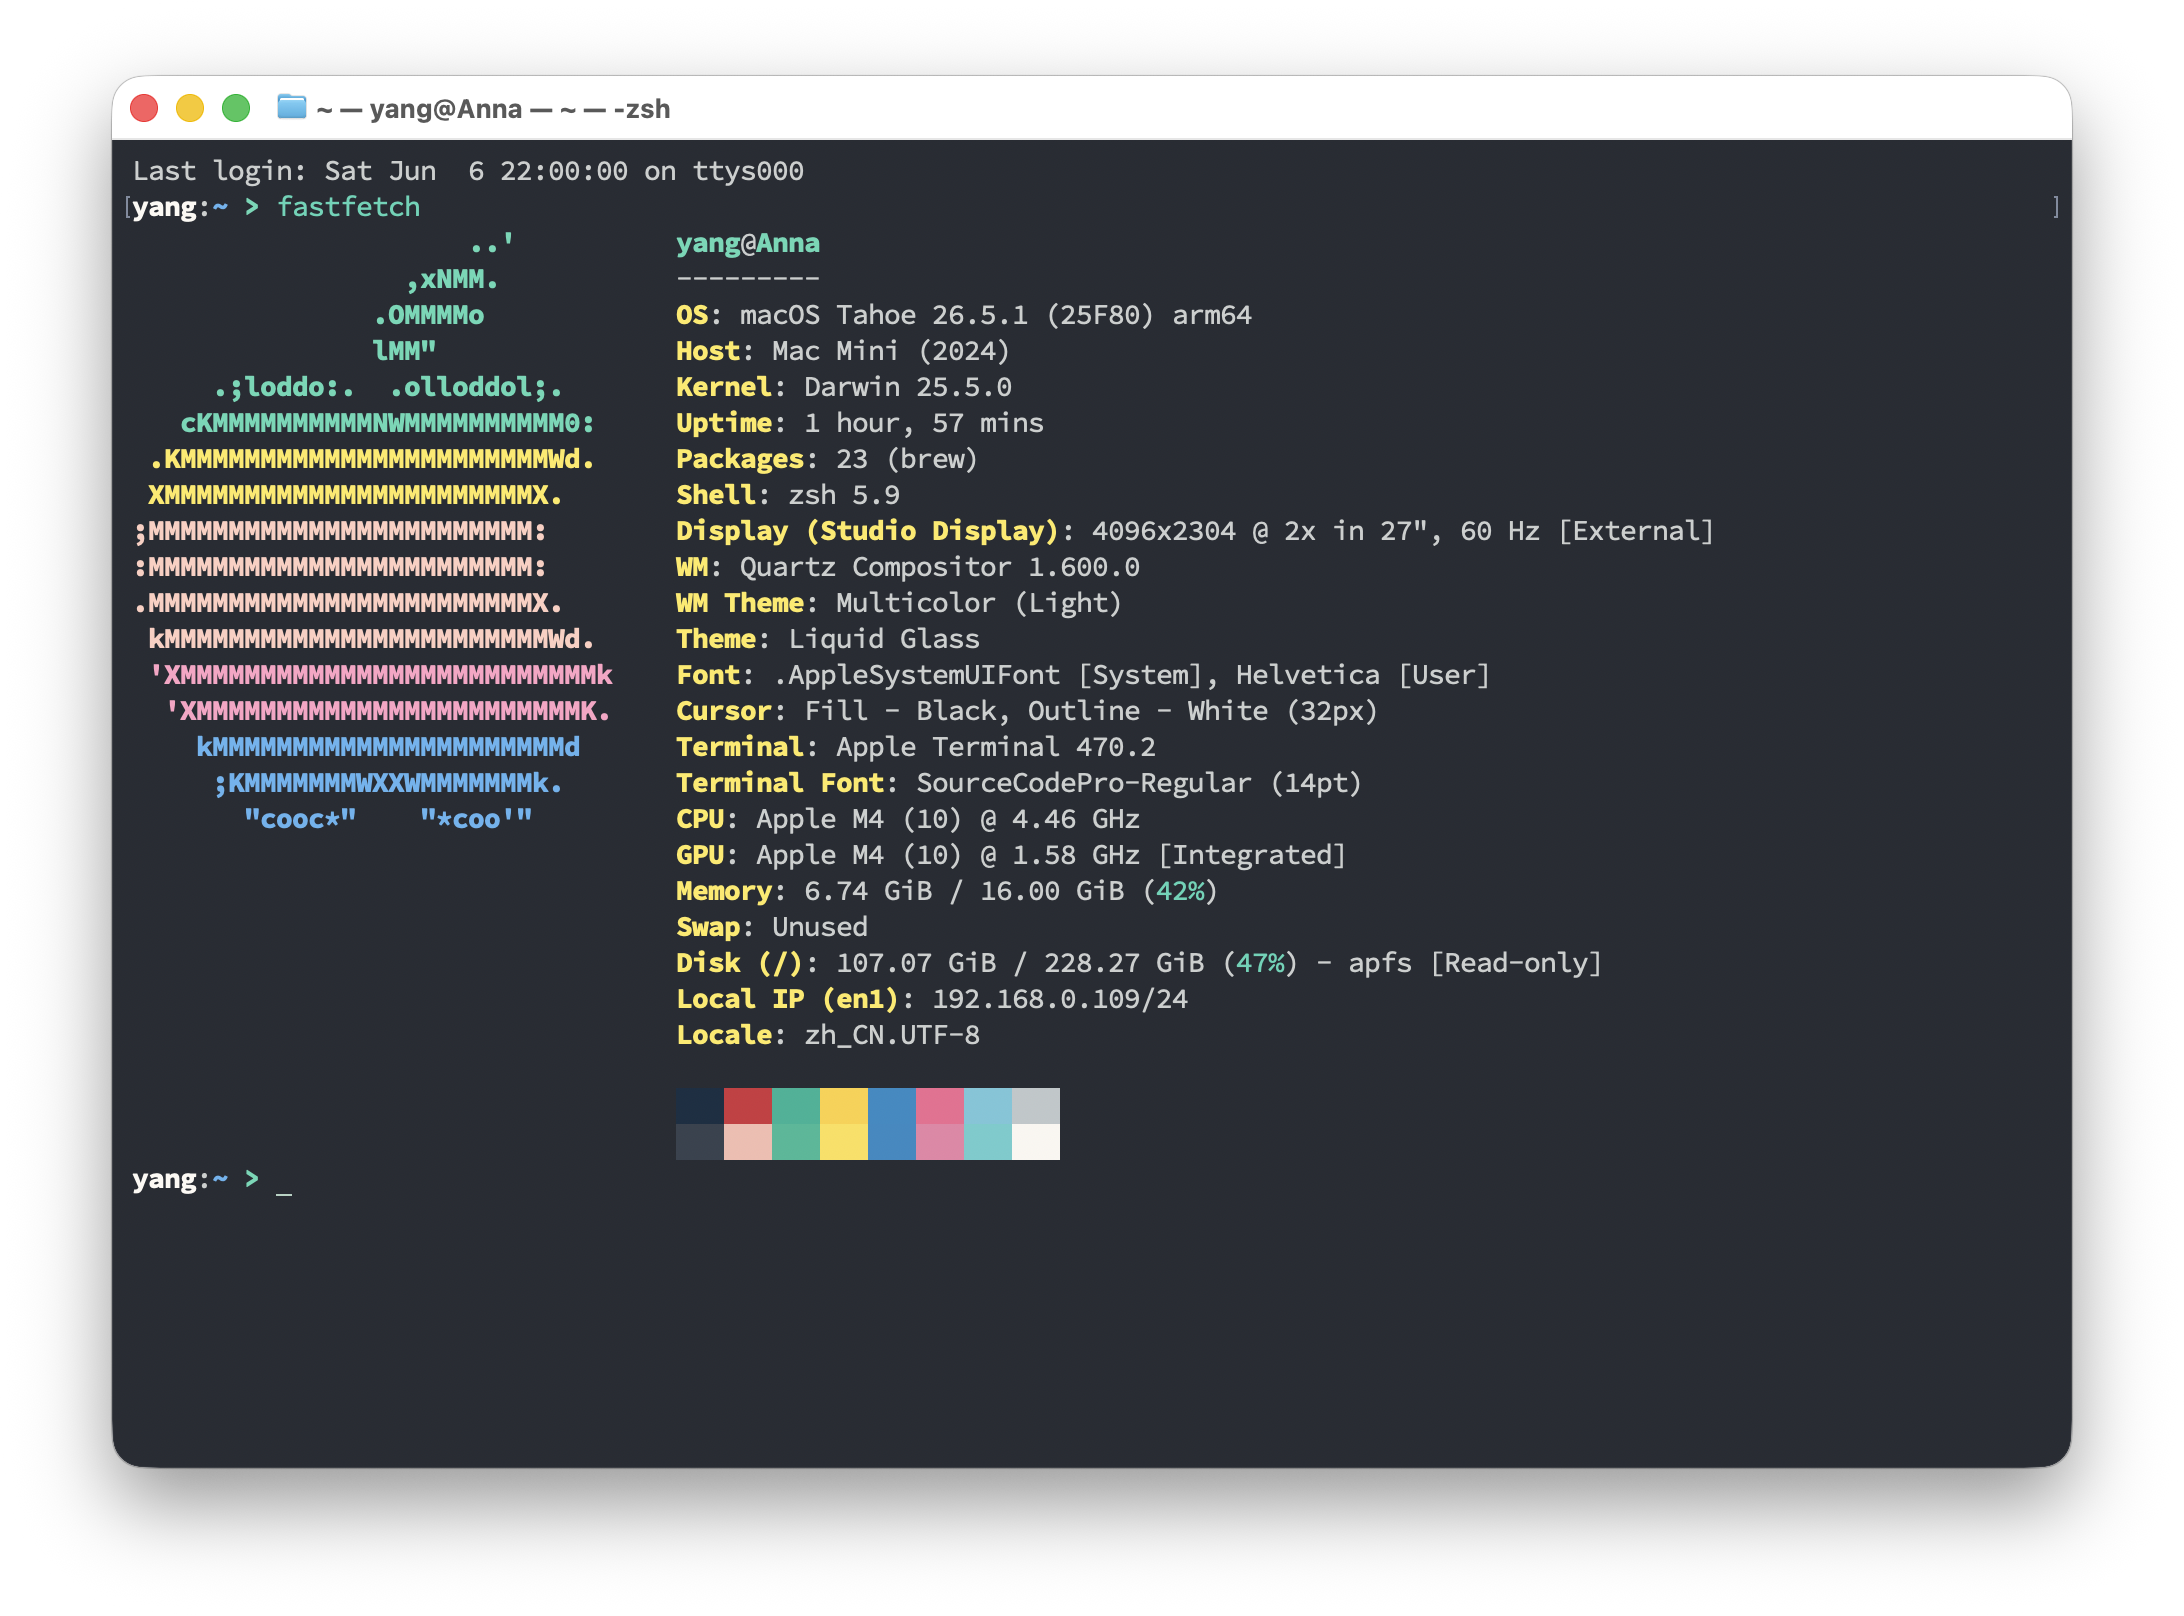
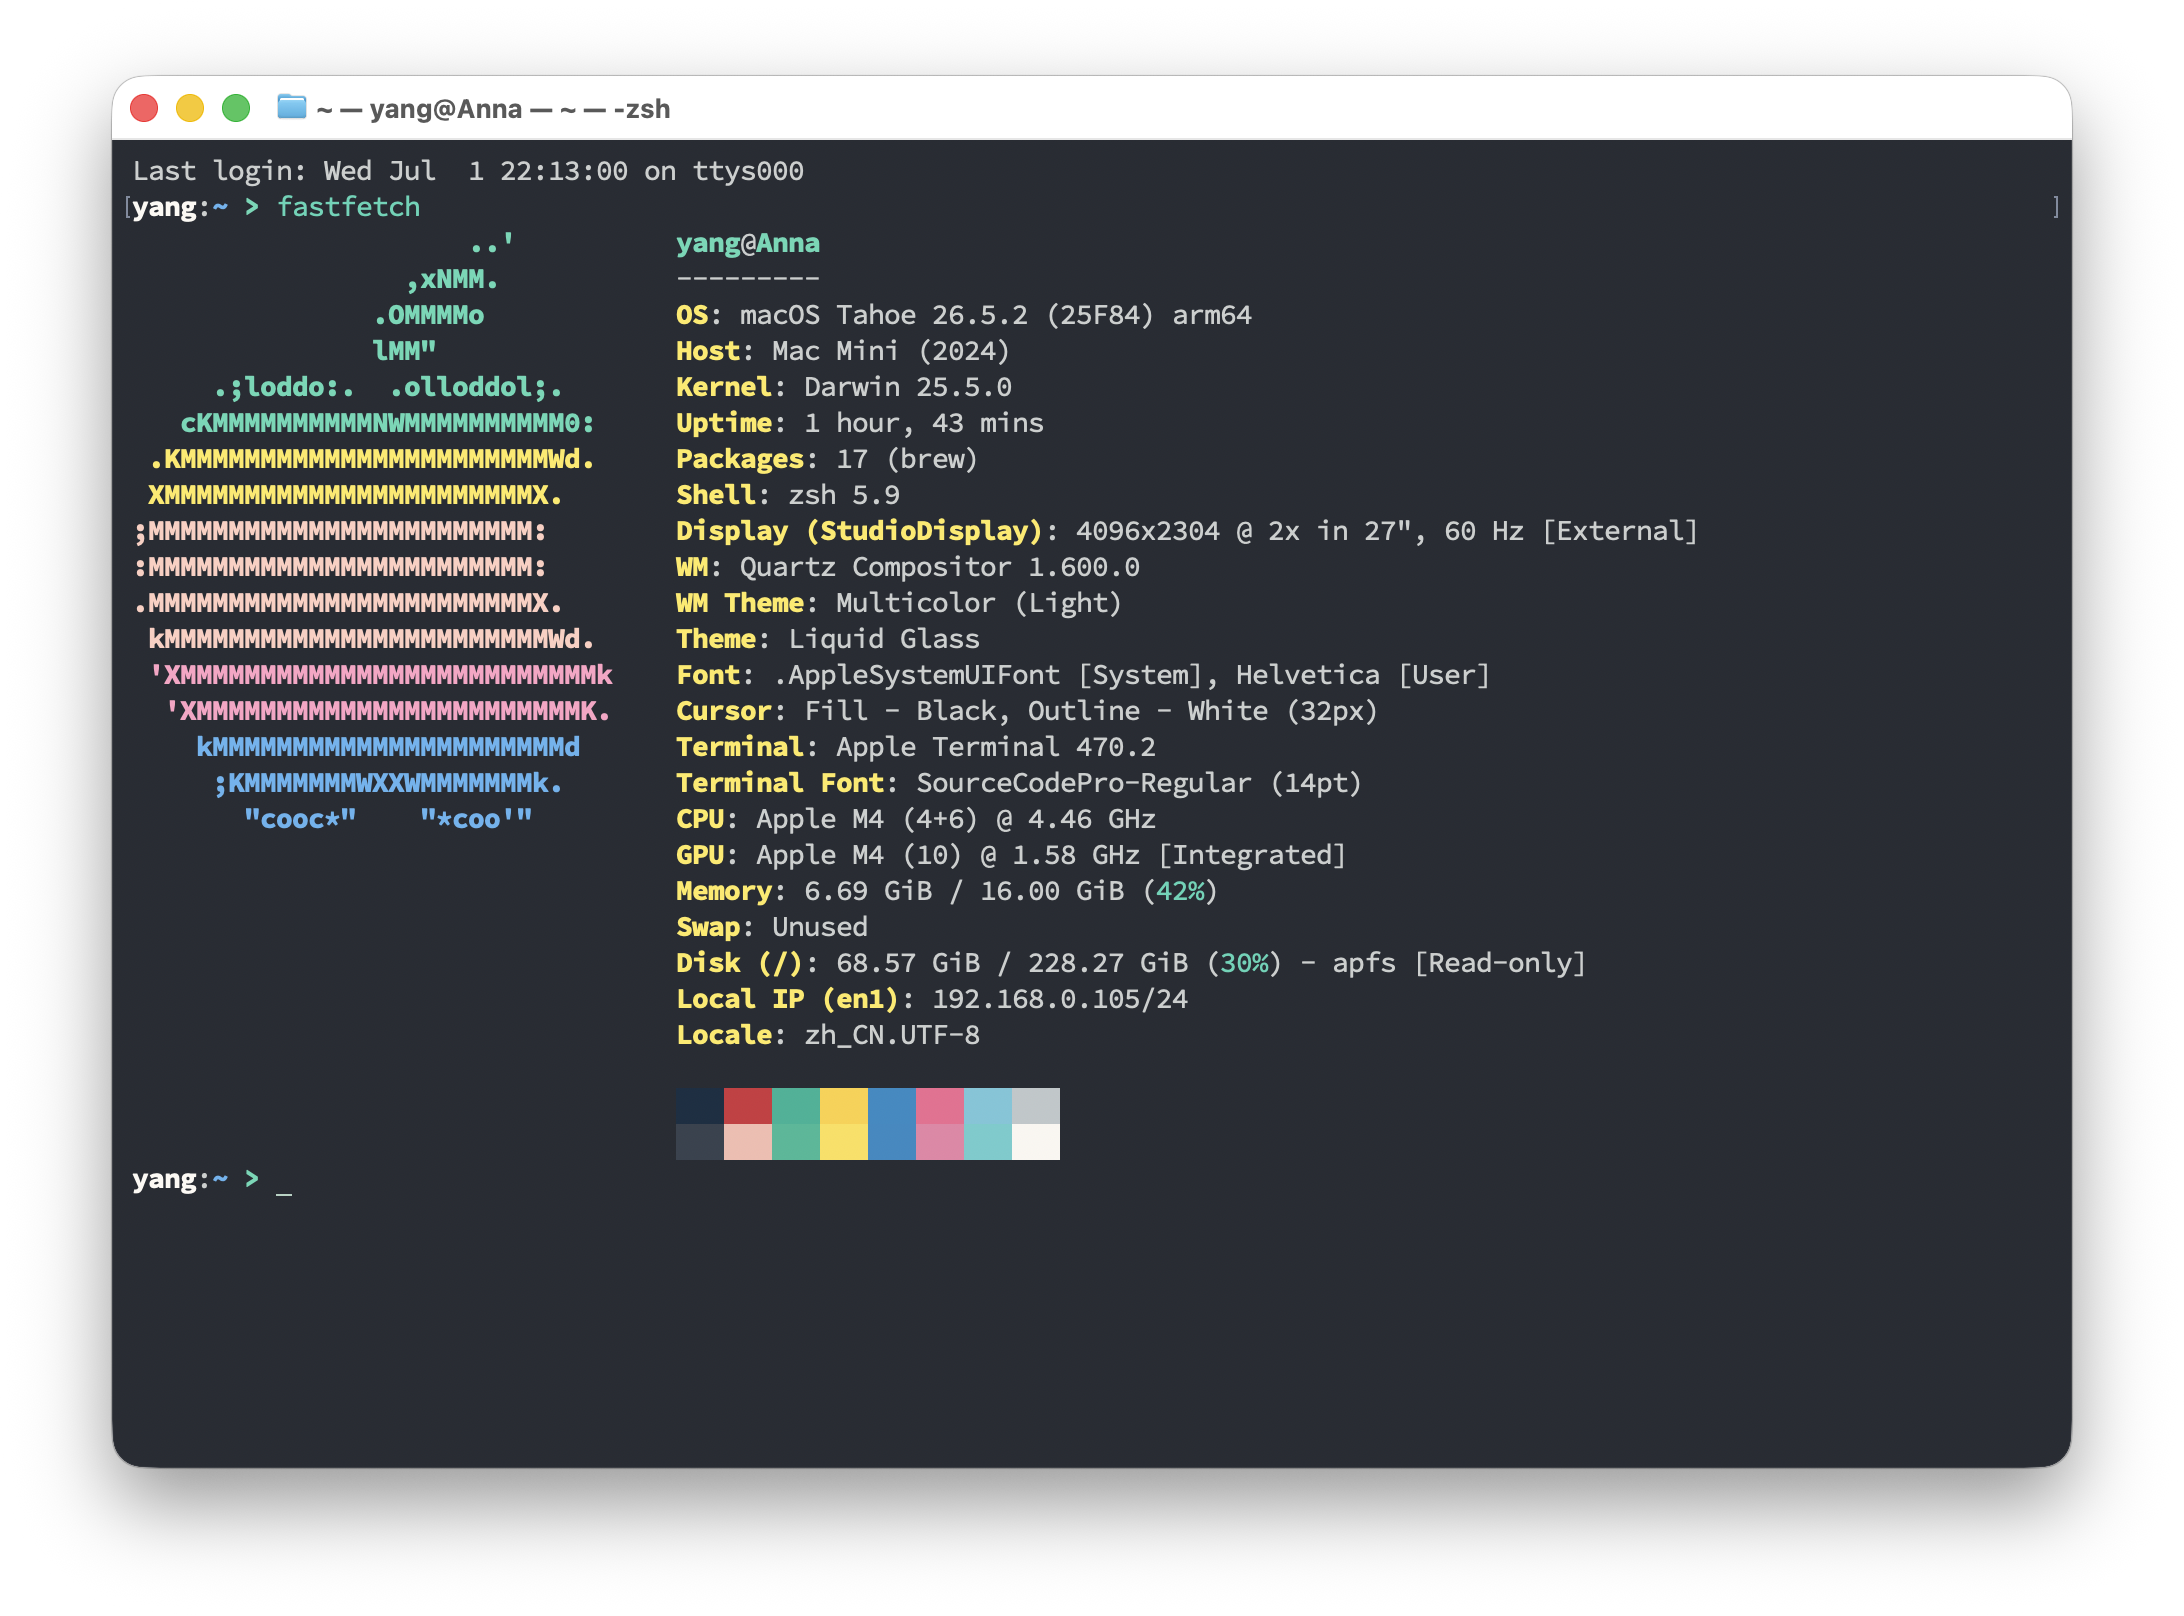
Update README

diff --git a/README.md b/README.md
@@ -2,7 +2,7 @@
 
 今天(2016-01-04)看到一个有意思的项目[利器社群计划](https://liqi.io/community/)，借此机会我也分享一下自己使用的一些小工具。
 
-<mark><em>**Update: 2026.06**</em></mark>
+<mark><em>**Update: 2026.07**</em></mark>
 
 <br>
 
@@ -98,25 +98,27 @@
     <br>
 
     * [Homebrew](https://brew.sh) {`/opt/homebrew`}
+        * [ffmpeg](https://www.ffmpeg.org)
         * [tree](http://mama.indstate.edu/users/ice/tree)
         * [fastfetch](https://github.com/fastfetch-cli/fastfetch) ([~~neofetch~~](https://github.com/dylanaraps/neofetch))
-        * [pyenv](https://github.com/pyenv/pyenv) {`pyenv install 3.14` `pyenv global 3.14`}
-            * `pip3 install -r requirements.txt`
-            * [tldr](https://tldr.sh) {`tldr -u`}
-            * [you-get](https://you-get.org)
-            * [httpx](https://pypi.org/project/httpx/)
-            * [requests](https://pypi.org/project/requests/)
-            * [beautifulsoup4](https://pypi.org/project/beautifulsoup4/)
-            * [django](https://www.djangoproject.com)
-            * [psycopg](https://www.psycopg.org)
-            * [openpyxl](https://pypi.org/project/openpyxl/)
-            * [pandas](https://pandas.pydata.org)
-            * [matplotlib](https://matplotlib.org)
-            * [pillow](https://github.com/python-pillow/Pillow)
-            * [jieba](https://github.com/fxsjy/jieba)
-            * [wordcloud](https://github.com/amueller/word_cloud)
-            * [python-docx](https://github.com/python-openxml/python-docx)
-            * [pygame](https://www.pygame.org)
+    <br>
+
+    * [Python](https://www.python.org) ([~~pyenv~~](https://github.com/pyenv/pyenv)) {`pip3 install -r requirements.txt`}
+        * [tldr](https://tldr.sh) {`tldr -u`}
+        * [you-get](https://you-get.org)
+        * [httpx](https://pypi.org/project/httpx/)
+        * [requests](https://pypi.org/project/requests/)
+        * [beautifulsoup4](https://pypi.org/project/beautifulsoup4/)
+        * [django](https://www.djangoproject.com)
+        * [psycopg](https://www.psycopg.org)
+        * [openpyxl](https://pypi.org/project/openpyxl/)
+        * [pandas](https://pandas.pydata.org)
+        * [matplotlib](https://matplotlib.org)
+        * [pillow](https://github.com/python-pillow/Pillow)
+        * [jieba](https://github.com/fxsjy/jieba)
+        * [wordcloud](https://github.com/amueller/word_cloud)
+        * [python-docx](https://github.com/python-openxml/python-docx)
+        * [pygame](https://www.pygame.org)
     <br>
 
     * [CotEditor](https://coteditor.com) (Plain-Text Editor) [App Store]